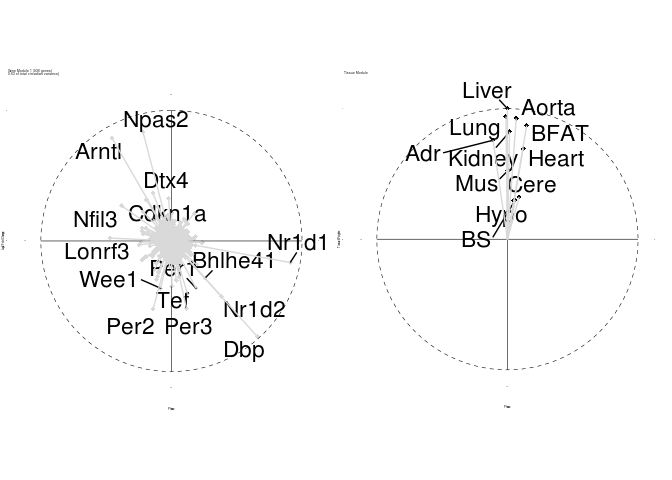
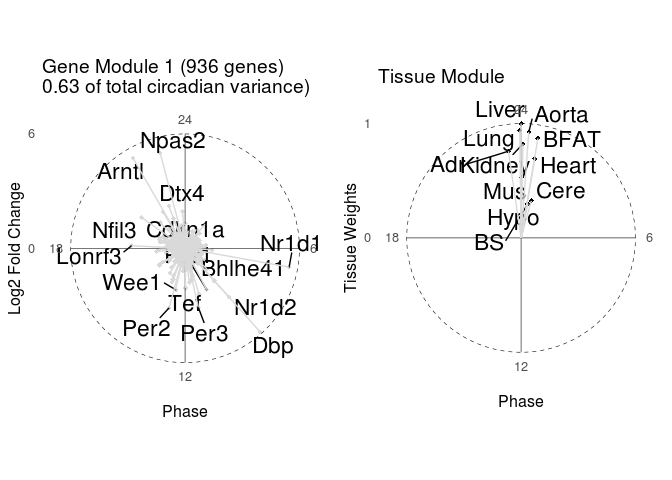
Bigger labels

Changed region(s): [[0.0, 0.125, 0.9688, 0.7812], [0.7188, 0.8125, 0.8125, 0.875], [0.2188, 0.8438, 0.3125, 0.875]]

diff --git a/README.md b/README.md
@@ -18,6 +18,10 @@
     ##     intersect, setdiff, setequal, union
 
     library(ggplot2)
+
+    ## RStudio Community is a great place to get help:
+    ## https://community.rstudio.com/c/tidyverse.
+
     library(hash)
 
     ## hash-2.2.6.1 provided by Decision Patterns
@@ -145,7 +149,7 @@ visualize how modules of genes oscillate across tissues
     ## Warning: Detecting old grouped_df format, replacing `vars` attribute by
     ## `groups`
 
-    eigens.tw <- GetEigens(s.tw, period = 24, comp = svdcomponent, add.arrow = TRUE, jsize = 8, label.n = 15, eigenval = TRUE, adj.mag = TRUE, constant.amp = dotsize, peak.to.trough = TRUE, label.gene = c("Dbp", "Arntl", "Per2", "Nr1d1"))
+    eigens.tw <- GetEigens(s.tw, period = 24, comp = svdcomponent, add.arrow = TRUE, jsize = 12, label.n = 15, eigenval = TRUE, adj.mag = TRUE, constant.amp = dotsize, peak.to.trough = TRUE, label.gene = c("Dbp", "Arntl", "Per2", "Nr1d1"))
 
     ## Warning in if (!is.na(label.gene)) {: the condition has length > 1 and only
     ## the first element will be used
@@ -168,7 +172,7 @@ oscillate in nearly all tissues, with coherent phases. However, we find
 the amplitudes vary (we often see brain tissues have lower amplitudes
 than other tissues like liver)
 
-    eigens.tw.wtko <- GetEigens(s.tw.wtko, period = 24, add.arrow = TRUE, comp = svdcomponent, jsize = 8, label.n = 15, eigenval = TRUE, adj.mag = TRUE, constant.amp = dotsize, peak.to.trough = TRUE, label.gene = c("Dbp", "Arntl", "Per2", "Nr1d1"))
+    eigens.tw.wtko <- GetEigens(s.tw.wtko, period = 24, add.arrow = TRUE, comp = svdcomponent, jsize = 12, label.n = 15, eigenval = TRUE, adj.mag = TRUE, constant.amp = dotsize, peak.to.trough = TRUE, label.gene = c("Dbp", "Arntl", "Per2", "Nr1d1"))
 
     ## Warning in if (!is.na(label.gene)) {: the condition has length > 1 and only
     ## the first element will be used
